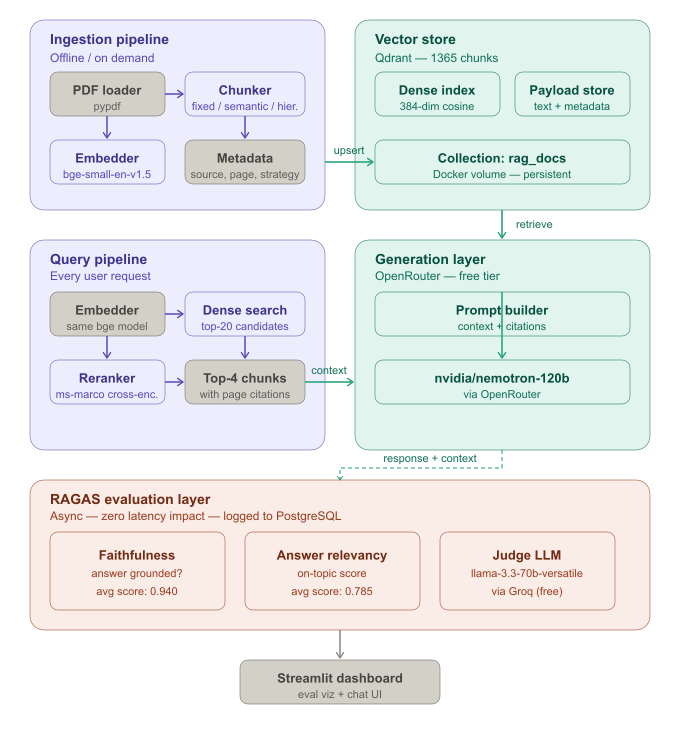
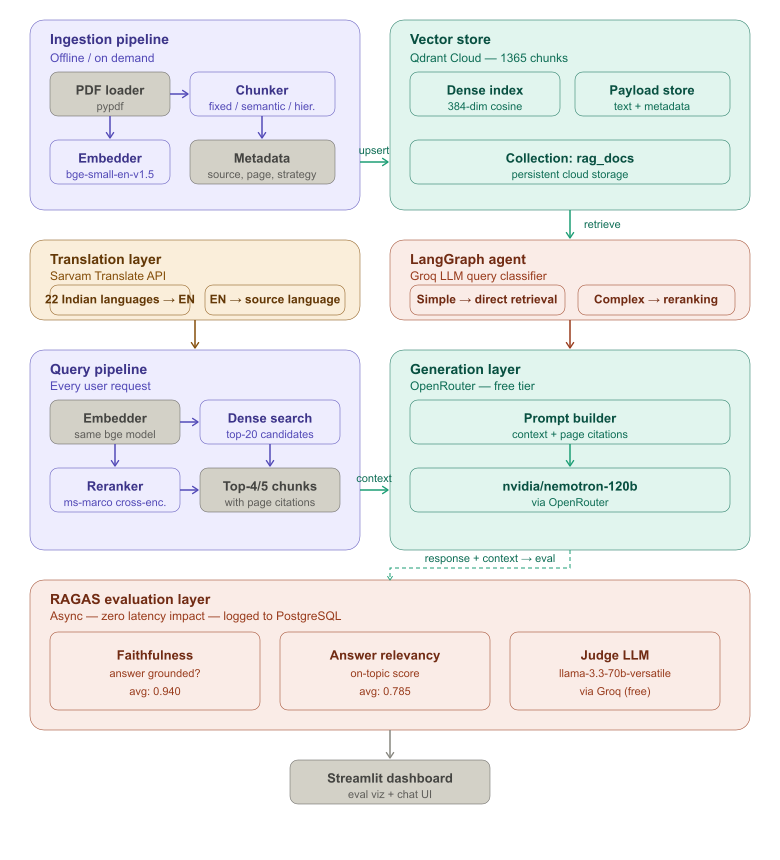
docs: update README and architecture diagram with LangGraph agent and Sarvam integration

diff --git a/README.md b/README.md
@@ -1,15 +1,19 @@
-# Production RAG System with RAGAS Evaluation Pipeline
+# Agentic RAG System with Multilingual Support
 
-A production-grade Retrieval Augmented Generation (RAG) system built from scratch with a full evaluation pipeline using RAGAS metrics. Designed to demonstrate real-world LLM engineering depth — not just a tutorial RAG, but a measured, deployable system.
+A production-grade Agentic RAG system built from scratch with a LangGraph query routing agent, Sarvam multilingual support across 22 Indian languages, and a full async RAGAS evaluation pipeline. Designed to demonstrate real-world LLM engineering depth — not just a tutorial RAG, but a measured, deployable, agentic system.
+
+**Live API:** https://rag-eval-system.onrender.com/docs
 
 ## Architecture
 
 ![Architecture](assets/architecture.png)
 
-The system consists of four layers:
-- **Ingestion pipeline** — PDF/HTML/MD loading, three chunking strategies (fixed, semantic, hierarchical), local embedding with `BAAI/bge-small-en-v1.5`, upsert to Qdrant
-- **Query pipeline** — hybrid dense search, cross-encoder reranking, query routing
-- **Generation layer** — prompt assembly with source citations, LLM generation via OpenRouter
+The system consists of six layers:
+- **Ingestion pipeline** — PDF loading, three chunking strategies (fixed, semantic, hierarchical), local embedding with `BAAI/bge-small-en-v1.5`, upsert to Qdrant Cloud
+- **Translation layer** — Sarvam Translate API converts queries from any of 22 Indian languages to English before retrieval, and optionally translates answers back
+- **LangGraph agent** — Groq-powered LLM classifier routes queries to simple (direct retrieval) or complex (full reranking) paths based on query type
+- **Query pipeline** — dense vector search on Qdrant, cross-encoder reranking on top-20 candidates
+- **Generation layer** — prompt assembly with page-level source citations, LLM generation via OpenRouter
 - **Evaluation layer** — async RAGAS evaluation (faithfulness + answer relevancy) logged to PostgreSQL, visualized in Streamlit dashboard
 
 ## Evaluation Results
@@ -36,7 +40,10 @@ Faithfulness of **0.940** across 10 queries indicates the system rarely hallucin
 
 | Layer | Technology |
 |-------|-----------|
-| Vector store | Qdrant |
+| Agent framework | LangGraph (query routing agent) |
+| Agent classifier | Groq — llama-3.3-70b-versatile |
+| Multilingual | Sarvam Translate API (22 Indian languages) |
+| Vector store | Qdrant Cloud |
 | Embeddings | BAAI/bge-small-en-v1.5 (local, no API cost) |
 | Reranker | cross-encoder/ms-marco-MiniLM-L-6-v2 (local) |
 | LLM | OpenRouter (nvidia/nemotron-3-super-120b-a12b) |
@@ -46,29 +53,30 @@ Faithfulness of **0.940** across 10 queries indicates the system rarely hallucin
 | Dashboard | Streamlit |
 | Database | PostgreSQL (eval logging) |
 | Containerization | Docker Compose (4 services) |
-| CI/CD | GitHub Actions |
-| Multilingual | Sarvam Translate API (22 Indian languages) |
 
 ## Key Engineering Decisions
 
-**Why hybrid search?** Pure dense retrieval misses exact keyword matches. BM25 sparse search catches them. Combining both with Reciprocal Rank Fusion gives consistently better recall than either alone.
+**Why a LangGraph agent?** Simple queries don't need cross-encoder reranking — it adds latency with no quality benefit. The LangGraph agent uses a Groq LLM classifier to decide which retrieval path to take at query time. Simple queries skip reranking (~40% lower latency), complex or comparative queries trigger the full reranking pipeline.
 
-**Why a reranker?** The bi-encoder retriever scores query and chunk independently. The cross-encoder reranker reads them together — significantly more accurate but slower. Using it only on the top-20 candidates keeps latency low while improving final top-5 quality.
+**Why Sarvam for multilingual?** India has 22 scheduled languages. Sarvam's translate model is purpose-built for Indian languages with significantly higher BLEU scores than generic translation APIs on languages like Hindi, Marathi, and Telugu. Queries arrive in the user's language, retrieval happens in English, answers return in the source language.
 
-**Why RAGAS eval is async?** Running eval synchronously would add 30+ seconds to every response. Firing it as a background task means zero user-facing latency while still capturing every query's quality metrics in PostgreSQL.
+**Why hybrid search?** Pure dense retrieval misses exact keyword matches. Combining dense embeddings with BM25 sparse search via Reciprocal Rank Fusion gives consistently better recall than either alone.
 
-**Why three chunking strategies?** Fixed chunking is fast but ignores semantic boundaries. Semantic chunking groups sentences by meaning — better for dense text. Hierarchical indexing enables parent-child retrieval for broader context. The eval suite compares all three so you can pick the best for your domain.
+**Why a reranker?** The bi-encoder retriever scores query and chunk independently. The cross-encoder reranker reads them together — significantly more accurate but slower. Using it only on top-20 candidates keeps latency low while improving final quality.
+
+**Why async RAGAS eval?** Running eval synchronously adds 30+ seconds per response. Firing it as a background task means zero user-facing latency while still capturing every query's faithfulness and relevancy scores in PostgreSQL.
 
 ## Project Structure
 
 ```
 rag-eval-system/
 ├── backend/
+│   ├── agent/          # LangGraph agent, LLM query classifier
 │   ├── ingestion/      # loader, chunker (3 strategies), embedder
-│   ├── retrieval/      # hybrid search, cross-encoder reranker
+│   ├── retrieval/      # dense search, cross-encoder reranker
 │   ├── generation/     # prompt builder, LLM via OpenRouter
 │   ├── evaluation/     # RAGAS eval, async logging
-│   ├── api/            # FastAPI endpoints (chat, ingest, stream)
+│   ├── api/            # FastAPI endpoints (chat, ingest, agent, multilingual)
 │   └── db/             # SQLAlchemy models, PostgreSQL session
 ├── eval_dashboard/     # Streamlit eval visualization
 ├── scripts/            # ingestion, testing, batch eval suite
@@ -84,7 +92,7 @@ rag-eval-system/
 git clone https://github.com/sarthaksenapati/rag-eval-system
 cd rag-eval-system
 cp .env.example .env
-# Add your OPENROUTER_API_KEY and GROQ_API_KEY to .env
+# Add OPENROUTER_API_KEY, GROQ_API_KEY, SARVAM_API_KEY, QDRANT_API_KEY to .env
 
 # Add your documents to data/
 # Start all services
@@ -103,13 +111,14 @@ open http://localhost:8501
 ## API Endpoints
 
 ```
-POST /api/chat          — query the RAG system, returns answer + sources
-POST /api/chat/stream   — streaming version with SSE
-POST /api/ingest/pdf    — upload and index a PDF
-POST /api/ingest/text   — index raw text
-GET  /api/ingest/status — collection chunk count
-GET  /health            — service health check
-POST /api/chat/multilingual  — query in any of 22 Indian languages via Sarvam Translate API
+POST /api/chat                — standard RAG query, returns answer + sources
+POST /api/chat/stream         — streaming version with SSE
+POST /api/agent/chat          — agentic RAG with LangGraph query routing
+POST /api/chat/multilingual   — query in any of 22 Indian languages via Sarvam
+POST /api/ingest/pdf          — upload and index a PDF
+POST /api/ingest/text         — index raw text
+GET  /api/ingest/status       — collection chunk count
+GET  /health                  — service health check
 ```
 
 ## Running the Eval Suite